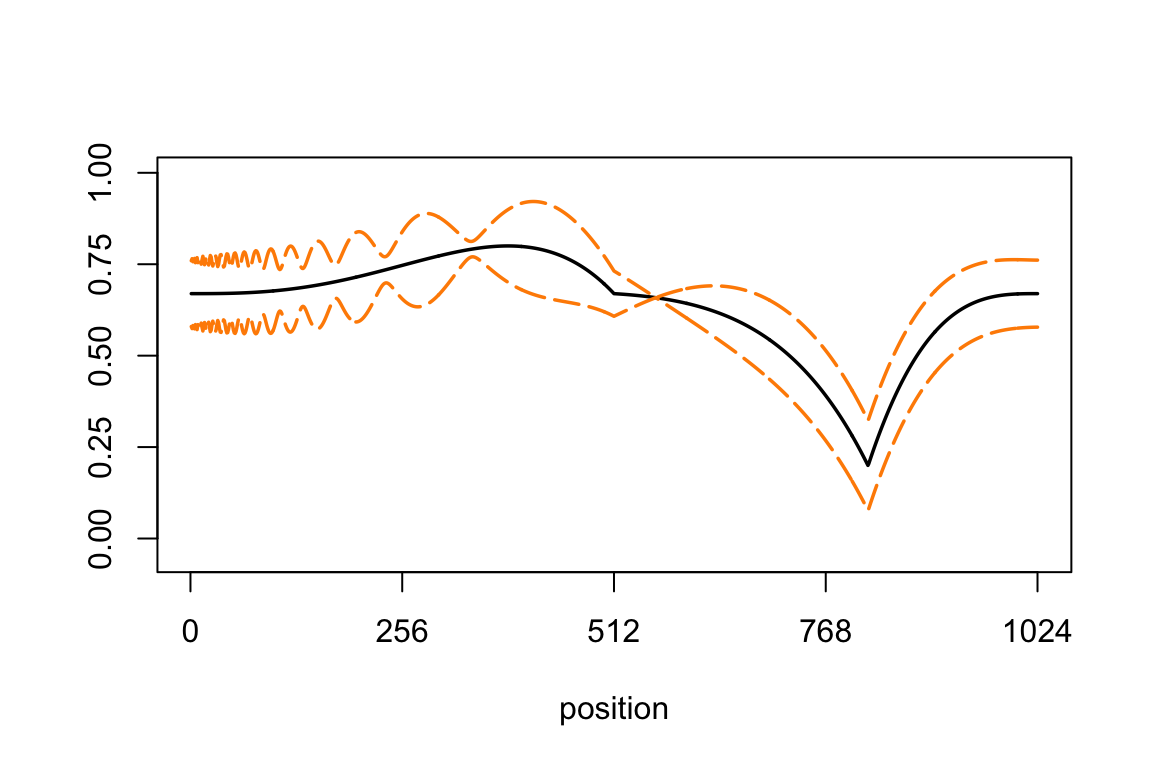
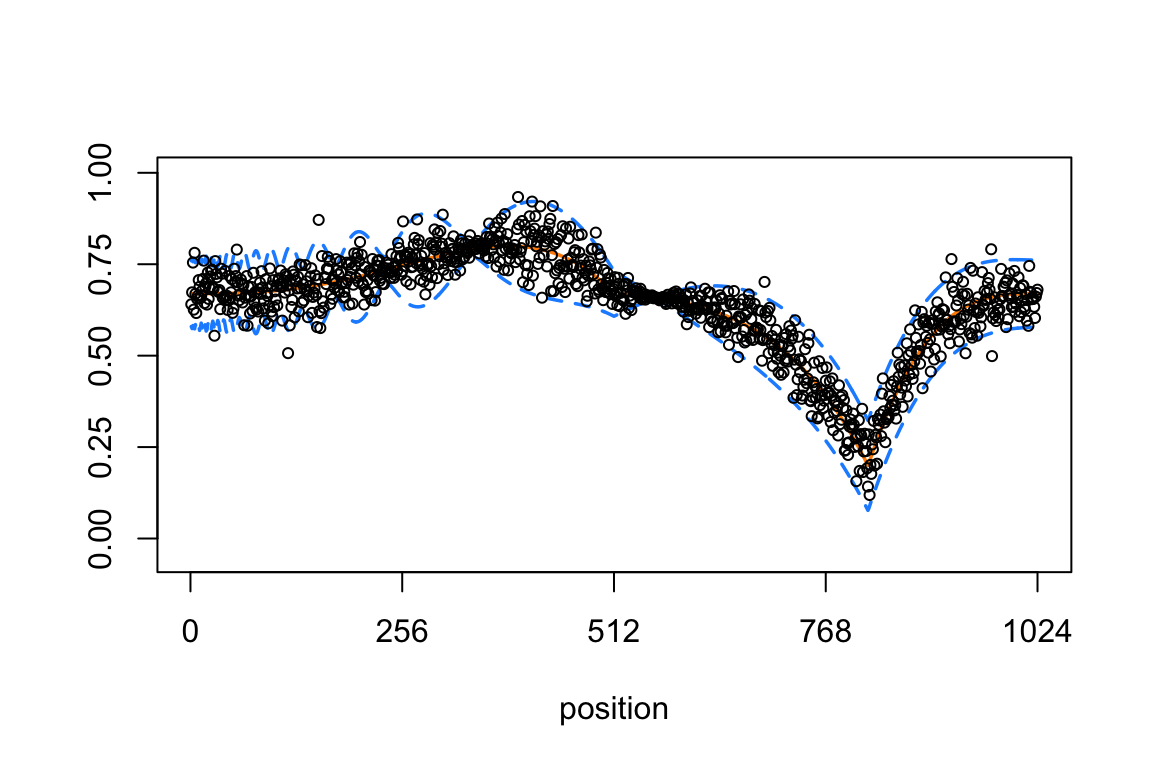
Added simulated data set to Corner signal plot in "gaussmeanest" workflowr analysis.

Changed region(s): [[0.1562, 0.25, 0.9062, 0.6562]]

diff --git a/docs/gaussmeanest.html b/docs/gaussmeanest.html
@@ -420,16 +420,16 @@ This reproducible <a href="http://rmarkdown.rstudio.com">R Markdown</a> analysis
 <div class="panel panel-default">
 <div class="panel-heading">
 <p class="panel-title">
-<a data-toggle="collapse" data-parent="#workflowr-checks" href="#strongRepositoryversionstrongahrefhttpsgithubcomstephenslabsmashpapertree935bef61f1286d0acd9933ec3c9b1e4b8824c655targetblank935bef6a"> <span class="glyphicon glyphicon-ok text-success" aria-hidden="true"></span> <strong>Repository version:</strong> <a href="https://github.com/stephenslab/smash-paper/tree/935bef61f1286d0acd9933ec3c9b1e4b8824c655" target="_blank">935bef6</a> </a>
+<a data-toggle="collapse" data-parent="#workflowr-checks" href="#strongRepositoryversionstrongahrefhttpsgithubcomstephenslabsmashpapertree571a2214f9755384dfbf3bd74c1052a07ad452betargetblank571a221a"> <span class="glyphicon glyphicon-ok text-success" aria-hidden="true"></span> <strong>Repository version:</strong> <a href="https://github.com/stephenslab/smash-paper/tree/571a2214f9755384dfbf3bd74c1052a07ad452be" target="_blank">571a221</a> </a>
 </p>
 </div>
[2 lines of base64/hex data omitted]
 <div class="panel-body">
 <p>
 Great! You are using Git for version control. Tracking code development and connecting the code version to the results is critical for reproducibility.
 </p>
 <p>
-The results in this page were generated with repository version <a href="https://github.com/stephenslab/smash-paper/tree/935bef61f1286d0acd9933ec3c9b1e4b8824c655" target="_blank">935bef6</a>. See the <em>Past versions</em> tab to see a history of the changes made to the R Markdown and HTML files.
+The results in this page were generated with repository version <a href="https://github.com/stephenslab/smash-paper/tree/571a2214f9755384dfbf3bd74c1052a07ad452be" target="_blank">571a221</a>. See the <em>Past versions</em> tab to see a history of the changes made to the R Markdown and HTML files.
 </p>
 <p>
 Note that you need to be careful to ensure that all relevant files for the analysis have been committed to Git prior to generating the results (you can use <code>wflow_publish</code> or <code>wflow_git_commit</code>). workflowr only checks the R Markdown file, but you know if there are other scripts or data files that it depends on. Below is the status of the Git repository when the results were generated:
@@ -501,6 +501,40 @@ Message
 </tr>
 </thead>
 <tbody>
+<tr>
+<td>
+Rmd
+</td>
+<td>
+<a href="https://github.com/stephenslab/smash-paper/blob/571a2214f9755384dfbf3bd74c1052a07ad452be/analysis/gaussmeanest.Rmd" target="_blank">571a221</a>
+</td>
+<td>
+Peter Carbonetto
+</td>
+<td>
+2020-06-16
+</td>
+<td>
+wflow_publish(“gaussmeanest.Rmd”)
+</td>
+</tr>
+<tr>
+<td>
+html
+</td>
+<td>
+<a href="https://rawcdn.githack.com/stephenslab/smash-paper/bc790ae6ad723cbb393b561d78be74a8d77d52f8/docs/gaussmeanest.html" target="_blank">bc790ae</a>
+</td>
+<td>
+Peter Carbonetto
+</td>
+<td>
+2020-06-16
+</td>
+<td>
+Added example simulated data set to “Spikes” signal plot in
+</td>
+</tr>
 <tr>
 <td>
 Rmd
@@ -997,6 +1031,17 @@ Date
 <tbody>
 <tr>
 <td>
+<a href="https://github.com/stephenslab/smash-paper/blob/bc790ae6ad723cbb393b561d78be74a8d77d52f8/docs/figure/gaussmeanest.Rmd/create-violin-plot-homo-1.png" target="_blank">bc790ae</a>
+</td>
+<td>
+Peter Carbonetto
+</td>
+<td>
+2020-06-16
+</td>
+</tr>
+<tr>
+<td>
 <a href="https://github.com/stephenslab/smash-paper/blob/3cdef118cbd4a03ed4c121c7dec0c6d467021c1e/docs/figure/gaussmeanest.Rmd/create-violin-plot-homo-1.png" target="_blank">3cdef11</a>
 </td>
 <td>
@@ -1052,6 +1097,17 @@ Date
 <tbody>
 <tr>
 <td>
+<a href="https://github.com/stephenslab/smash-paper/blob/bc790ae6ad723cbb393b561d78be74a8d77d52f8/docs/figure/gaussmeanest.Rmd/summarize-results-homo-1.png" target="_blank">bc790ae</a>
+</td>
+<td>
+Peter Carbonetto
+</td>
+<td>
+2020-06-16
+</td>
+</tr>
+<tr>
+<td>
 <a href="https://github.com/stephenslab/smash-paper/blob/436e15096acb7d06fd1a77dafe2266bbed93f3b0/docs/figure/gaussmeanest.Rmd/summarize-results-homo-1.png" target="_blank">436e150</a>
 </td>
 <td>
@@ -1095,6 +1151,43 @@ lines(mu + 2*sd.fn,col = &quot;dodgerblue&quot;,lty = &quot;dashed&quot;,lwd = 1
 lines(mu - 2*sd.fn,col = &quot;dodgerblue&quot;,lty = &quot;dashed&quot;,lwd = 1.75)
 points(x.sim,cex = 0.7,pch = 1,col = &quot;black&quot;)</code></pre>
 <p><img src="figure/gaussmeanest.Rmd/spikes-signal-with-data-1.png" width="576" style="display: block; margin: auto;" /></p>
+<p>
+<button type="button" class="btn btn-default btn-xs btn-workflowr btn-workflowr-fig" data-toggle="collapse" data-target="#fig-spikes-signal-with-data-1">
+Past versions of spikes-signal-with-data-1.png
+</button>
+</p>
+<div id="fig-spikes-signal-with-data-1" class="collapse">
+<div class="table-responsive">
+<table class="table table-condensed table-hover">
+<thead>
+<tr>
+<th>
+Version
+</th>
+<th>
+Author
+</th>
+<th>
+Date
+</th>
+</tr>
+</thead>
+<tbody>
+<tr>
+<td>
+<a href="https://github.com/stephenslab/smash-paper/blob/bc790ae6ad723cbb393b561d78be74a8d77d52f8/docs/figure/gaussmeanest.Rmd/spikes-signal-with-data-1.png" target="_blank">bc790ae</a>
+</td>
+<td>
+Peter Carbonetto
+</td>
+<td>
+2020-06-16
+</td>
+</tr>
+</tbody>
+</table>
+</div>
+</div>
 <p>Next, we plot the ground-truth signal (the mean function, drawn as a black line), and the signals recovered by TI thresholding (light blue line) and SMASH (the red line) for the example simulated data set.</p>
 <pre class="r"><code>mu.smash &lt;- smash(x.sim,family = &quot;DaubLeAsymm&quot;,filter.number = 8)
 mu.ti    &lt;- ti.thresh(x.sim,method = &quot;rmad&quot;,family = &quot;DaubLeAsymm&quot;,
@@ -1127,6 +1220,17 @@ Date
 </tr>
 </thead>
 <tbody>
+<tr>
+<td>
+<a href="https://github.com/stephenslab/smash-paper/blob/bc790ae6ad723cbb393b561d78be74a8d77d52f8/docs/figure/gaussmeanest.Rmd/spikes-signal-with-estimates-1.png" target="_blank">bc790ae</a>
+</td>
+<td>
+Peter Carbonetto
+</td>
+<td>
+2020-06-16
+</td>
+</tr>
 <tr>
 <td>
 <a href="https://github.com/stephenslab/smash-paper/blob/8998bb8262a81bb180e4ee67128b2c827eb99b37/docs/figure/gaussmeanest.Rmd/spikes-signal-with-estimates-1.png" target="_blank">8998bb8</a>
@@ -1224,6 +1328,17 @@ Date
 <tbody>
 <tr>
 <td>
+<a href="https://github.com/stephenslab/smash-paper/blob/bc790ae6ad723cbb393b561d78be74a8d77d52f8/docs/figure/gaussmeanest.Rmd/plot-2-create-1.png" target="_blank">bc790ae</a>
+</td>
+<td>
+Peter Carbonetto
+</td>
+<td>
+2020-06-16
+</td>
+</tr>
+<tr>
+<td>
 <a href="https://github.com/stephenslab/smash-paper/blob/8998bb8262a81bb180e4ee67128b2c827eb99b37/docs/figure/gaussmeanest.Rmd/plot-2-create-1.png" target="_blank">8998bb8</a>
 </td>
 <td>
@@ -1263,15 +1378,19 @@ Peter Carbonetto
 </div>
 <div id="simulated-data-with-heteroskedastic-errors-corner-mean-signal-and-doppler-variance" class="section level2">
 <h2>Simulated data with heteroskedastic errors: “Corner” mean signal and “Doppler” variance</h2>
-<p>In this next scenario, the data sets were simulated using the “Corner” mean function and the “Doppler” variance function. These plots were also used in Fig. 3 of the manuscript.</p>
-<p>This plot shows the mean function as a black line, and the +/- 2 standard deviations as orange lines:</p>
-<pre class="r"><code>mu        &lt;- cor.fn(t,&quot;mean&quot;) 
+<p>In this next scenario, the data sets were simulated using the “Corner” mean function and the “Doppler” variance function. These plots were also used in Figure 3 of the manuscript.</p>
+<p>This plot shows the mean function as an orange line, the +/- 2 standard deviations as dashed, light blue lines, and an example simulated data set (black circles):</p>
+<pre class="r"><code>t         &lt;- (1:1024)/1024
+mu        &lt;- cor.fn(t,&quot;mean&quot;) 
 sigma.ini &lt;- sqrt(doppler.fn(t,&quot;var&quot;))
 sd.fn     &lt;- sigma.ini/mean(sigma.ini) * sd(mu)/3
-plot(mu,type = &quot;l&quot;, ylim = c(-0.05,1),xlab = &quot;position&quot;,ylab = &quot;&quot;,
-     lwd = 1.75,xaxp = c(0,1024,4),yaxp = c(0,1,4))
-lines(mu + 2*sd.fn,col = &quot;darkorange&quot;,lty = 5,lwd = 1.75)
-lines(mu - 2*sd.fn,col = &quot;darkorange&quot;,lty = 5,lwd = 1.75)</code></pre>
+x.sim     &lt;- rnorm(1024,mu,sd.fn)
+plot(mu,type = &quot;l&quot;,col = &quot;darkorange&quot;,ylim = c(-0.05,1),
+     xlab = &quot;position&quot;,ylab = &quot;&quot;,lwd = 1.75,xaxp = c(0,1024,4),
+     yaxp = c(0,1,4))
+lines(mu + 2*sd.fn,col = &quot;dodgerblue&quot;,lty = &quot;dashed&quot;,lwd = 1.75)
+lines(mu - 2*sd.fn,col = &quot;dodgerblue&quot;,lty = &quot;dashed&quot;,lwd = 1.75)
+points(x.sim,cex = 0.7,pch = 1,col = &quot;black&quot;)</code></pre>
 <p><img src="figure/gaussmeanest.Rmd/corner-signal-1.png" width="576" style="display: block; margin: auto;" /></p>
 <p>
 <button type="button" class="btn btn-default btn-xs btn-workflowr btn-workflowr-fig" data-toggle="collapse" data-target="#fig-corner-signal-1">
@@ -1295,6 +1414,17 @@ Date
 </tr>
 </thead>
 <tbody>
+<tr>
+<td>
+<a href="https://github.com/stephenslab/smash-paper/blob/bc790ae6ad723cbb393b561d78be74a8d77d52f8/docs/figure/gaussmeanest.Rmd/corner-signal-1.png" target="_blank">bc790ae</a>
+</td>
+<td>
+Peter Carbonetto
+</td>
+<td>
+2020-06-16
+</td>
+</tr>
 <tr>
 <td>
 <a href="https://github.com/stephenslab/smash-paper/blob/8998bb8262a81bb180e4ee67128b2c827eb99b37/docs/figure/gaussmeanest.Rmd/corner-signal-1.png" target="_blank">8998bb8</a>
@@ -1333,12 +1463,7 @@ Peter Carbonetto
 </div>
 </div>
 <p>Now, we plot the ground-truth signal (the mean function, drawn as a black line) and the signals recovered by TI thresholding (light blue line) and SMASH (the red line) for one simulated dataset as an illustration</p>
-<pre class="r"><code>t         &lt;- (1:1024)/1024
-mu        &lt;- cor.fn(t,&quot;mean&quot;) 
-sigma.ini &lt;- sqrt(doppler.fn(t,&quot;var&quot;))
-sd.fn     &lt;- sigma.ini/mean(sigma.ini) * sd(mu)/3
-x.sim  &lt;- rnorm(1024,mu,sd.fn)
-mu.smash &lt;- smash(x.sim,family = &quot;DaubLeAsymm&quot;,filter.number = 8)
+<pre class="r"><code>mu.smash &lt;- smash(x.sim,family = &quot;DaubLeAsymm&quot;,filter.number = 8)
 mu.ti    &lt;- ti.thresh(x.sim,method = &quot;rmad&quot;,family = &quot;DaubLeAsymm&quot;,
                       filter.number = 8)
 par(cex.axis = 1)
@@ -1369,6 +1494,17 @@ Date
 </tr>
 </thead>
 <tbody>
+<tr>
+<td>
+<a href="https://github.com/stephenslab/smash-paper/blob/bc790ae6ad723cbb393b561d78be74a8d77d52f8/docs/figure/gaussmeanest.Rmd/corner-signal-with-estimates-1.png" target="_blank">bc790ae</a>
+</td>
+<td>
+Peter Carbonetto
+</td>
+<td>
+2020-06-16
+</td>
+</tr>
 <tr>
 <td>
 <a href="https://github.com/stephenslab/smash-paper/blob/8998bb8262a81bb180e4ee67128b2c827eb99b37/docs/figure/gaussmeanest.Rmd/corner-signal-with-estimates-1.png" target="_blank">8998bb8</a>
@@ -1466,6 +1602,17 @@ Date
 <tbody>
 <tr>
 <td>
+<a href="https://github.com/stephenslab/smash-paper/blob/bc790ae6ad723cbb393b561d78be74a8d77d52f8/docs/figure/gaussmeanest.Rmd/plot-3-create-1.png" target="_blank">bc790ae</a>
+</td>
+<td>
+Peter Carbonetto
+</td>
+<td>
+2020-06-16
+</td>
+</tr>
+<tr>
+<td>
 <a href="https://github.com/stephenslab/smash-paper/blob/8998bb8262a81bb180e4ee67128b2c827eb99b37/docs/figure/gaussmeanest.Rmd/plot-3-create-1.png" target="_blank">8998bb8</a>
 </td>
 <td>
@@ -1560,6 +1707,17 @@ Date
 <tbody>
 <tr>
 <td>
+<a href="https://github.com/stephenslab/smash-paper/blob/bc790ae6ad723cbb393b561d78be74a8d77d52f8/docs/figure/gaussmeanest.Rmd/summarize-results-heterosked-snr-1-1.png" target="_blank">bc790ae</a>
+</td>
+<td>
+Peter Carbonetto
+</td>
+<td>
+2020-06-16
+</td>
+</tr>
+<tr>
+<td>
 <a href="https://github.com/stephenslab/smash-paper/blob/436e15096acb7d06fd1a77dafe2266bbed93f3b0/docs/figure/gaussmeanest.Rmd/summarize-results-heterosked-snr-1-1.png" target="_blank">436e150</a>
 </td>
 <td>
@@ -1626,6 +1784,17 @@ Date
 </tr>
 </thead>
 <tbody>
+<tr>
+<td>
+<a href="https://github.com/stephenslab/smash-paper/blob/bc790ae6ad723cbb393b561d78be74a8d77d52f8/docs/figure/gaussmeanest.Rmd/summarize-results-heterosked-snr-3-1.png" target="_blank">bc790ae</a>
+</td>
+<td>
+Peter Carbonetto
+</td>
+<td>
+2020-06-16
+</td>
+</tr>
 <tr>
 <td>
 <a href="https://github.com/stephenslab/smash-paper/blob/436e15096acb7d06fd1a77dafe2266bbed93f3b0/docs/figure/gaussmeanest.Rmd/summarize-results-heterosked-snr-3-1.png" target="_blank">436e150</a>
